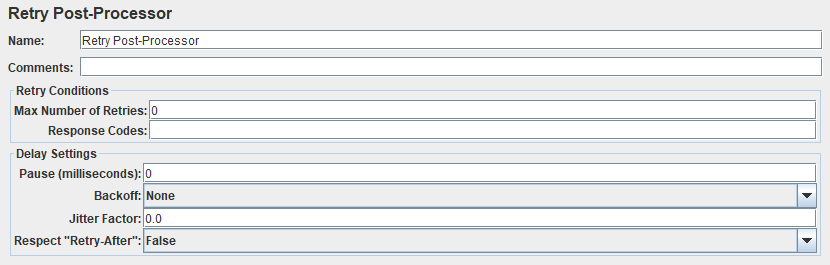
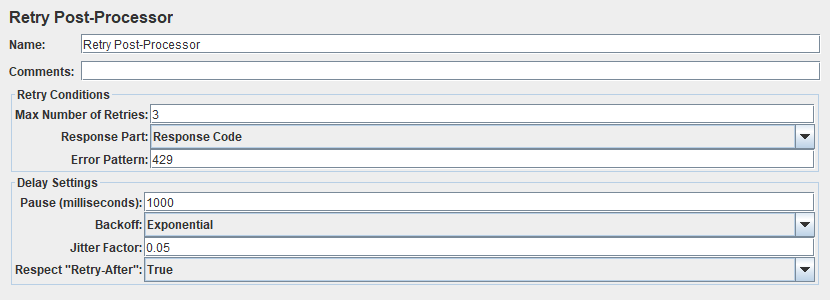
More flexible response check

Changed region(s): [[0.0, 0.1208, 0.994, 0.966], [0.0, 0.0302, 0.2108, 0.0906], [0.0, 0.1208, 0.0602, 0.1811]]

diff --git a/src/main/java/nz/co/breakpoint/jmeter/modifiers/RetryPostProcessor.java b/src/main/java/nz/co/breakpoint/jmeter/modifiers/RetryPostProcessor.java
@@ -20,6 +20,7 @@ import java.util.Arrays;
 import java.util.concurrent.ThreadLocalRandom;
 import java.util.regex.Matcher;
 import java.util.regex.Pattern;
+import java.util.regex.PatternSyntaxException;
 
 public class RetryPostProcessor extends AbstractTestElement implements PostProcessor, TestBean {
 
@@ -32,7 +33,8 @@ public class RetryPostProcessor extends AbstractTestElement implements PostProce
             PAUSE_MILLISECONDS = "pauseMilliseconds",
             BACKOFF = "backoff",
             JITTER = "jitter",
-            RESPONSE_CODES = "responseCodes",
+            RESPONSE_PART = "responsePart",
+            ERROR_PATTERN = "errorPattern",
             RETRY_AFTER = "retryAfter";
 
     public static final String
@@ -68,12 +70,20 @@ public class RetryPostProcessor extends AbstractTestElement implements PostProce
     }
 
     protected boolean isRetryCondition(Sampler sampler, SampleResult lastResult) {
-        final String retryCodes = getResponseCodes();
-        if (retryCodes != null && !retryCodes.isEmpty()) {
-            final String rc = lastResult.getResponseCode();
-            final boolean doRetry = rc.matches(retryCodes);
-            log.debug("Response code \"{}\" is{} to be retried", rc, doRetry ? "" : " not");
-            return doRetry;
+        ResponsePart part = ResponsePart.fromTag(getResponsePart());
+        String responsePart = part.extractPart(lastResult);
+        final String errorPattern = getErrorPattern();
+        if (errorPattern != null && !errorPattern.isEmpty()) {
+            try {
+                Pattern pattern = Pattern.compile(errorPattern);
+                Matcher matcher = pattern.matcher(responsePart);
+                final boolean doRetry = matcher.find();
+                log.debug("Response part {} retry condition", doRetry ? "matches" : "does not match");
+                return doRetry;
+            } catch (PatternSyntaxException e) {
+                log.error("Ignoring invalid error pattern {}", errorPattern, e);
+                return false;
+            }
         }
         return !lastResult.isSuccessful();
     }
@@ -179,8 +189,11 @@ public class RetryPostProcessor extends AbstractTestElement implements PostProce
     public long getPauseMilliseconds() { return getPropertyAsLong(PAUSE_MILLISECONDS); }
     public void setPauseMilliseconds(long pauseMilliseconds) { setProperty(PAUSE_MILLISECONDS, pauseMilliseconds); }
 
-    public String getResponseCodes() { return getPropertyAsString(RESPONSE_CODES); }
-    public void setResponseCodes(String responseCodes) { setProperty(RESPONSE_CODES, responseCodes); }
+    public String getResponsePart() { return getPropertyAsString(RESPONSE_PART); }
+    public void setResponsePart(String responsePart) { setProperty(RESPONSE_PART, responsePart); }
+
+    public String getErrorPattern() { return getPropertyAsString(ERROR_PATTERN); }
+    public void setErrorPattern(String errorPattern) { setProperty(ERROR_PATTERN, errorPattern); }
 
     public String getBackoff() { return getPropertyAsString(BACKOFF); }
     public void setBackoff(String backoff) { setProperty(BACKOFF, backoff); }
@@ -190,6 +203,52 @@ public class RetryPostProcessor extends AbstractTestElement implements PostProce
 
     public boolean getRetryAfter() { return getPropertyAsBoolean(RETRY_AFTER); }
     public void setRetryAfter(boolean retryAfter) { setProperty(RETRY_AFTER, retryAfter); }
+
+    public enum ResponsePart {
+        NONE,
+        RESPONSE_CODE {
+            @Override
+            public String extractPart(SampleResult result) {
+                return result.getResponseCode();
+            }
+        },
+        RESPONSE_DATA {
+            @Override
+            public String extractPart(SampleResult result) {
+                return result.getResponseDataAsString();
+            }
+        },
+        RESPONSE_HEADERS {
+            @Override
+            public String extractPart(SampleResult result) {
+                return result.getResponseHeaders();
+            }
+        },
+        RESPONSE_MESSAGE {
+            @Override
+            public String extractPart(SampleResult result) {
+                return result.getResponseMessage();
+            }
+        };
+
+        public String extractPart(SampleResult result) {
+            return null;
+        }
+
+        // Tags must match ResourceBundle and appear in script files:
+        public static ResponsePart fromTag(String responsePart) {
+            return responsePart == null || responsePart.isEmpty() ? NONE :
+                    valueOf(responsePart.replaceFirst(RESPONSE_PART + ".", ""));
+        }
+
+        public static String[] tags() {
+            return Arrays.stream(ResponsePart.values()).map(ResponsePart::toTag).toArray(String[]::new);
+        }
+
+        public String toTag() {
+            return RESPONSE_PART + "." + this;
+        }
+    }
 
     public enum BackoffType {
         NONE,

diff --git a/src/test/java/nz/co/breakpoint/jmeter/modifiers/TestRetryPostProcessor.java b/src/test/java/nz/co/breakpoint/jmeter/modifiers/TestRetryPostProcessor.java
@@ -7,7 +7,6 @@ import org.apache.jmeter.threads.JMeterContext;
 import org.apache.jmeter.threads.JMeterContextService;
 import org.junit.Before;
 import org.junit.Test;
-
 import java.time.Duration;
 import java.time.Instant;
 import java.time.ZoneId;
@@ -15,6 +14,7 @@ import java.time.ZonedDateTime;
 import java.time.format.DateTimeFormatter;
 import java.util.Arrays;
 import java.util.stream.IntStream;
+import static nz.co.breakpoint.jmeter.modifiers.RetryPostProcessor.ResponsePart.*;
 import static org.junit.Assert.*;
 
 public class TestRetryPostProcessor {
@@ -60,15 +60,27 @@ public class TestRetryPostProcessor {
     }
 
     @Test
-    public void itShouldRetryOnlySpecifiedResponseCodes() {
-        instance.setMaxRetries(10);
-        instance.setResponseCodes("[a-z]*[32]"); // retry the first two results
+    public void itShouldIgnoreInvalidErrorPatterns() {
+        instance.setErrorPattern("[");
         instance.process();
-        assertEquals("Expect three sub-results", 3, prev.getSubResults().length);
-        assertEquals("Expect failure response code", "code3", prev.getSubResults()[0].getResponseCode());
-        assertEquals("Expect failure response code", "code2", prev.getSubResults()[1].getResponseCode());
-        assertEquals("Expect success response code", "code1", prev.getSubResults()[2].getResponseCode());
-        assertTrue("Expect all samples to be unsuccessful", Arrays.stream(prev.getSubResults()).noneMatch(SampleResult::isSuccessful));
+        assertEquals("Original result must be unmodified", prev, context.getPreviousResult());
+        assertEquals("Expect no sub-results", 0, prev.getSubResults().length);
+    }
+
+    @Test
+    public void itShouldRetryOnlySpecifiedResponseParts() {
+        instance.setMaxRetries(10);
+        instance.setErrorPattern("[a-z]*[32]"); // retry the first two results
+        for (RetryPostProcessor.ResponsePart part : new RetryPostProcessor.ResponsePart[]
+                { RESPONSE_CODE, RESPONSE_DATA, RESPONSE_HEADERS, RESPONSE_MESSAGE }) {
+            instance.setResponsePart(part.toTag());
+            instance.process();
+            assertEquals("Expect three sub-results", 3, prev.getSubResults().length);
+            assertEquals("Expect failure response code", "code3", prev.getSubResults()[0].getResponseCode());
+            assertEquals("Expect failure response code", "code2", prev.getSubResults()[1].getResponseCode());
+            assertEquals("Expect success response code", "code1", prev.getSubResults()[2].getResponseCode());
+            assertTrue("Expect all samples to be unsuccessful", Arrays.stream(prev.getSubResults()).noneMatch(SampleResult::isSuccessful));
+        }
     }
 
     @Test

diff --git a/src/main/java/nz/co/breakpoint/jmeter/modifiers/RetryPostProcessorBeanInfo.java b/src/main/java/nz/co/breakpoint/jmeter/modifiers/RetryPostProcessorBeanInfo.java
@@ -12,7 +12,7 @@ public class RetryPostProcessorBeanInfo extends BeanInfoSupport {
         super(RetryPostProcessor.class);
 
         createPropertyGroup("RetryConditions", new String[]{
-                MAX_RETRIES, RESPONSE_CODES
+                MAX_RETRIES, RESPONSE_PART, ERROR_PATTERN
         });
         PropertyDescriptor p;
 
@@ -20,7 +20,13 @@ public class RetryPostProcessorBeanInfo extends BeanInfoSupport {
         p.setValue(NOT_UNDEFINED, Boolean.TRUE);
         p.setValue(DEFAULT, 0L);
 
-        p = property(RESPONSE_CODES);
+        p = property(RESPONSE_PART, TypeEditor.ComboStringEditor);
+        p.setValue(RESOURCE_BUNDLE, getBeanDescriptor().getValue(RESOURCE_BUNDLE));
+        p.setValue(NOT_UNDEFINED, Boolean.TRUE);
+        p.setValue(DEFAULT, RetryPostProcessor.ResponsePart.NONE.toTag());
+        p.setValue(TAGS, RetryPostProcessor.ResponsePart.tags());
+
+        p = property(ERROR_PATTERN);
         p.setValue(NOT_UNDEFINED, Boolean.TRUE);
         p.setValue(DEFAULT, "");
 
